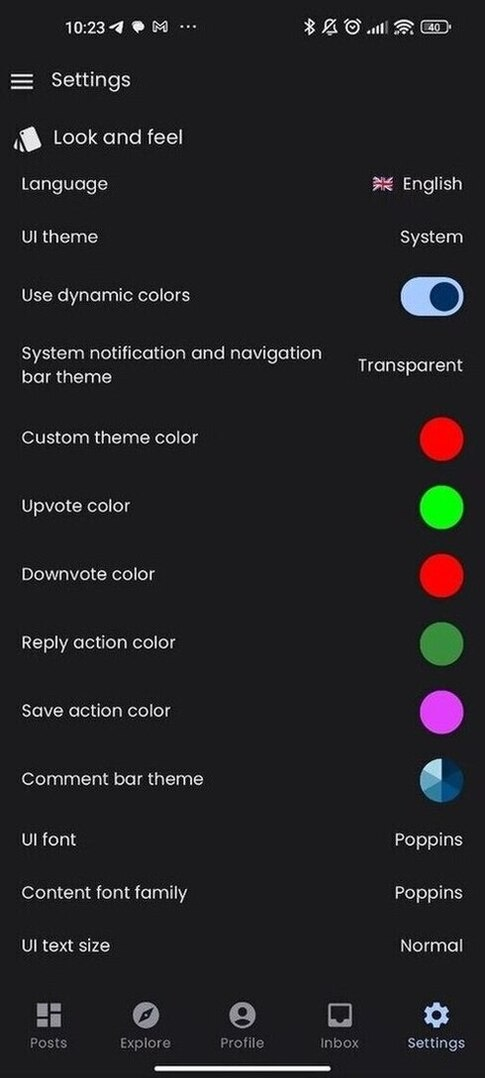
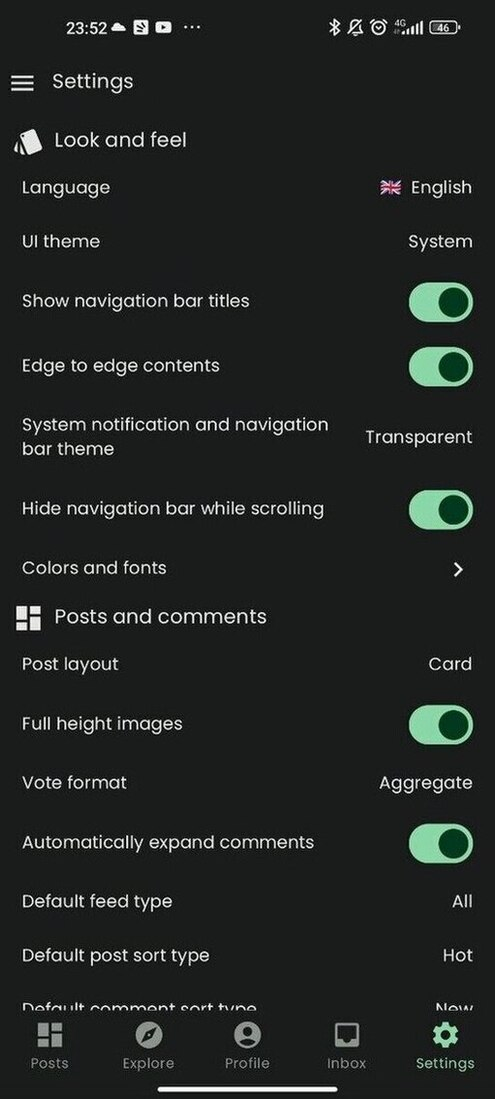
chore: update settings documentation

diff --git a/docs/user_manual/logged_user.md b/docs/user_manual/logged_user.md
@@ -61,13 +61,6 @@ additional items and sub-screens.
 Please refer to [description of the page](#18-settings) for anonymous users for the common parts,
 here is a description of the additional functions:
 
-- Look and feel:
-    - Upvote color: color of the upvote action (both used as a card background when swiping and to
-      highlight the vote indicator when you have upvoted a content);
-    - Downvote color: color of the downvote action (both used as a card background when swiping and
-      to highlight the vote indicator when you have downvoted a content);
-    - Reply action color: card background color for the reply action;
-    - Save action color: card background color for the save action;
 - Posts and comments:
     - Default inbox type: whether the Inbox includes all contents by default of just unread ones;
 - Behaviour:
@@ -75,23 +68,50 @@ here is a description of the additional functions:
       interaction, posts are marked as read on the fly as they become visible while scrolling;
     - Enable double tap action: instead of using swipe actions, this option activated the "
       double tap to like" mode some users may be familiar with from other social apps;
-    - Configure swipe actions: opens the configure swipe actions screen where it is possible to
-      assign an action to the 4 slots (two on the left side and two on the right side) of the
-      cards used to render post, comments and inbox items;
+    - Configure swipe actions: opens the configure swipe actions screen;
     - Enable swipe actions: whether the swipe to left/right actions are enabled in post and comment
       list, inbox and reports;
 - Account settings:
-    - Web preferences: opens a page where you can customize some preferences associated to your
-      Lemmy account (similarly to what you can do on the webapp)
-    - Bans and filters: allows you to see what users, communities and instances you have blocked and
-      remove the block (these settings are tied to your Lemmy account too);
+    - Web preferences: allows you to edit web account preferences;
+    - Bans and filters: configure user/community/instance ban and filtering options.
 
 ![settings 1](images/logged_settings_1.jpg)
-![settings 1](images/logged_settings_3.jpg)
-![settings 1](images/logged_settings_2.jpg)
-![settings 1](images/logged_swipe_actions.jpg)
-![settings 1](images/logged_web_settings.jpg)
-![settings 1](images/logged_ban_filter.jpg)
+![settings 3](images/logged_settings_2.jpg)
+![settings 2](images/logged_settings_3.jpg)
+
+#### 2.6.1 Colors and fonts
+
+This screen for anonymous users allows to configure custom colors for swipe actions:
+
+- Upvote color: color of the upvote action (both used as a card background when swiping and to
+  highlight the vote indicator when you have upvoted a content);
+- Downvote color: color of the downvote action (both used as a card background when swiping and
+  to highlight the vote indicator when you have downvoted a content);
+- Reply action color: card background color for the reply action;
+- Save action color: card background color for the save action;
+
+![colors and fonts](images/logged_color_fonts.jpg)
+
+#### 2.6.2 Configure swipe actions
+
+In this screen it is possible to assign an action to the 4 slots (two on the left side and two on
+the right side) of the cards used to render post, comments and inbox items.
+
+![configure swipe actions](images/logged_swipe_actions.jpg)
+
+#### 2.6.3 Web account settings
+
+This screen lets you configure some preferences associated to your Lemmy account (similarly to what
+you can do on the webapp).
+
+![web settings](images/logged_web_settings.jpg)
+
+#### 2.6.4 Ban and filter options
+
+This screen allows you to see what users, communities and instances you have blocked and
+remove the block (these settings are tied to your Lemmy account too).
+
+![bans and filters](images/logged_ban_filter.jpg)
 
 ### 2.7 Moderation tools
 

diff --git a/docs/user_manual/anon_user.md b/docs/user_manual/anon_user.md
@@ -79,8 +79,8 @@ a query string and result type (post, comment, communities, users or everything)
 In anonymous mode the profile and inbox screens are just placeholders that invite you to access with
 an account.
 
-![explore](images/anon_profile.png)
-![explore](images/anon_inbox.png)
+![anonymous profile](images/anon_profile.png)
+![anonymous inbox](images/anon_inbox.png)
 
 ### 1.8 Settings
 
@@ -94,20 +94,14 @@ The settings screen allows you to customize the look and behaviour of your app.
     - System notification and navigation bar theme: if you enable edge-to-edge display, choosing "
       Transparent" makes the status and nav bar completely transparent, otherwise they have the
       system color with a slight alpha to make them more visible;
-    - Custom theme color: (requires "Use dynamic color" off to be applied) generate a palette by
-      choosing a seed color from a predefined list or custom color;
-    - Comment bar theme: palette of colors used to distinguish nested comments;
-    - UI font family: typeface used for the app UI elements (menus, labels, etc);
-    - Content font family: typeface used for post and comments on Lemmy;
-    - UI text size: scale factor to apply to the app UI elements;
-    - Content text size: scale factor to apply to posts and comments on Lemmy;
+    - Show navigation bar titles: include the section titles in the bottom navigation bar;
+    - Colors and fonts: opens the color and font configuration screen;
+- Post and comments:
     - Post layout: choose a layout (Card, Compact, Full) for posts
     - Vote format: see the score of posts and comments as aggregated (`upvotes - downvotes`), split
       or percentage (`upvotes / (upvotes + downvotes) * 100`);
     - Full height images: show images with scaled width and full height (instead of capping the
       height) in the feed;
-    - Show navigation bar titles: include the section titles in the bottom navigation bar;
-- Post and comments:
     - Default feed type: listing type for the home screen applied by default
     - Default post sort type: sort type for the home, community detail and user detail applied by
       default;
@@ -134,11 +128,25 @@ The settings screen allows you to customize the look and behaviour of your app.
 - Debug:
     - Enable crash reporting: send anonymous reports about crash events;
     - About this app: shows a dialog with the app versions and some useful shortcuts to reach out to
-      the developers or other members of the community.
+      the developers or other members of the community;
+    - User manual: opens the application manual online (this page).
 
-![settings](images/anon_settings_1.png)
-![settings](images/anon_settings_2.png)
-![settings](images/anon_settings_3.png)
+![settings first part](images/anon_settings_1.jpg)
+![settings second part](images/anon_settings_2.jpg)
+
+#### 1.8.1 Colors and fonts
+
+This screen allows to configure colors and fonts of the UI:
+
+- Custom theme color: (requires "Use dynamic color" off to be applied) generate a palette by
+  choosing a seed color from a predefined list or custom color;
+- Comment bar theme: palette of colors used to distinguish nested comments;
+- UI font family: typeface used for the app UI elements (menus, labels, etc);
+- Content font family: typeface used for post and comments on Lemmy;
+- UI text size: scale factor to apply to the app UI elements;
+- Content text size: scale factor to apply to posts and comments on Lemmy;
+
+![colors and fonts](images/anon_color_fonts.jpg)
 
 ### 1.9 Moderation log
 
